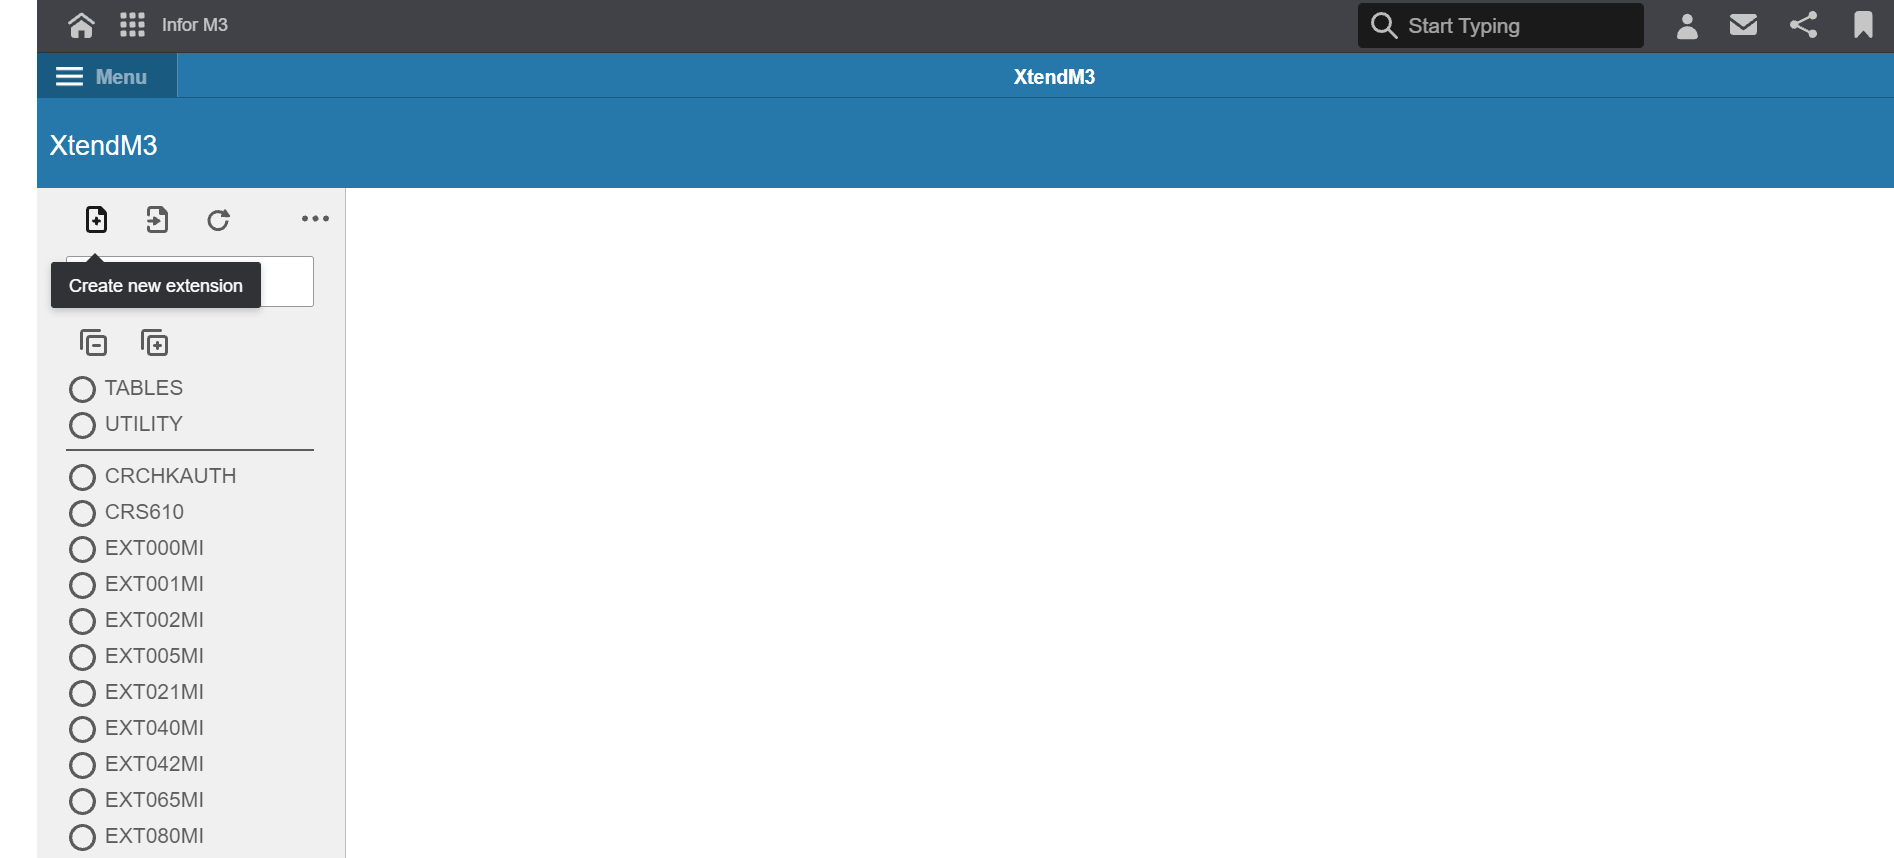
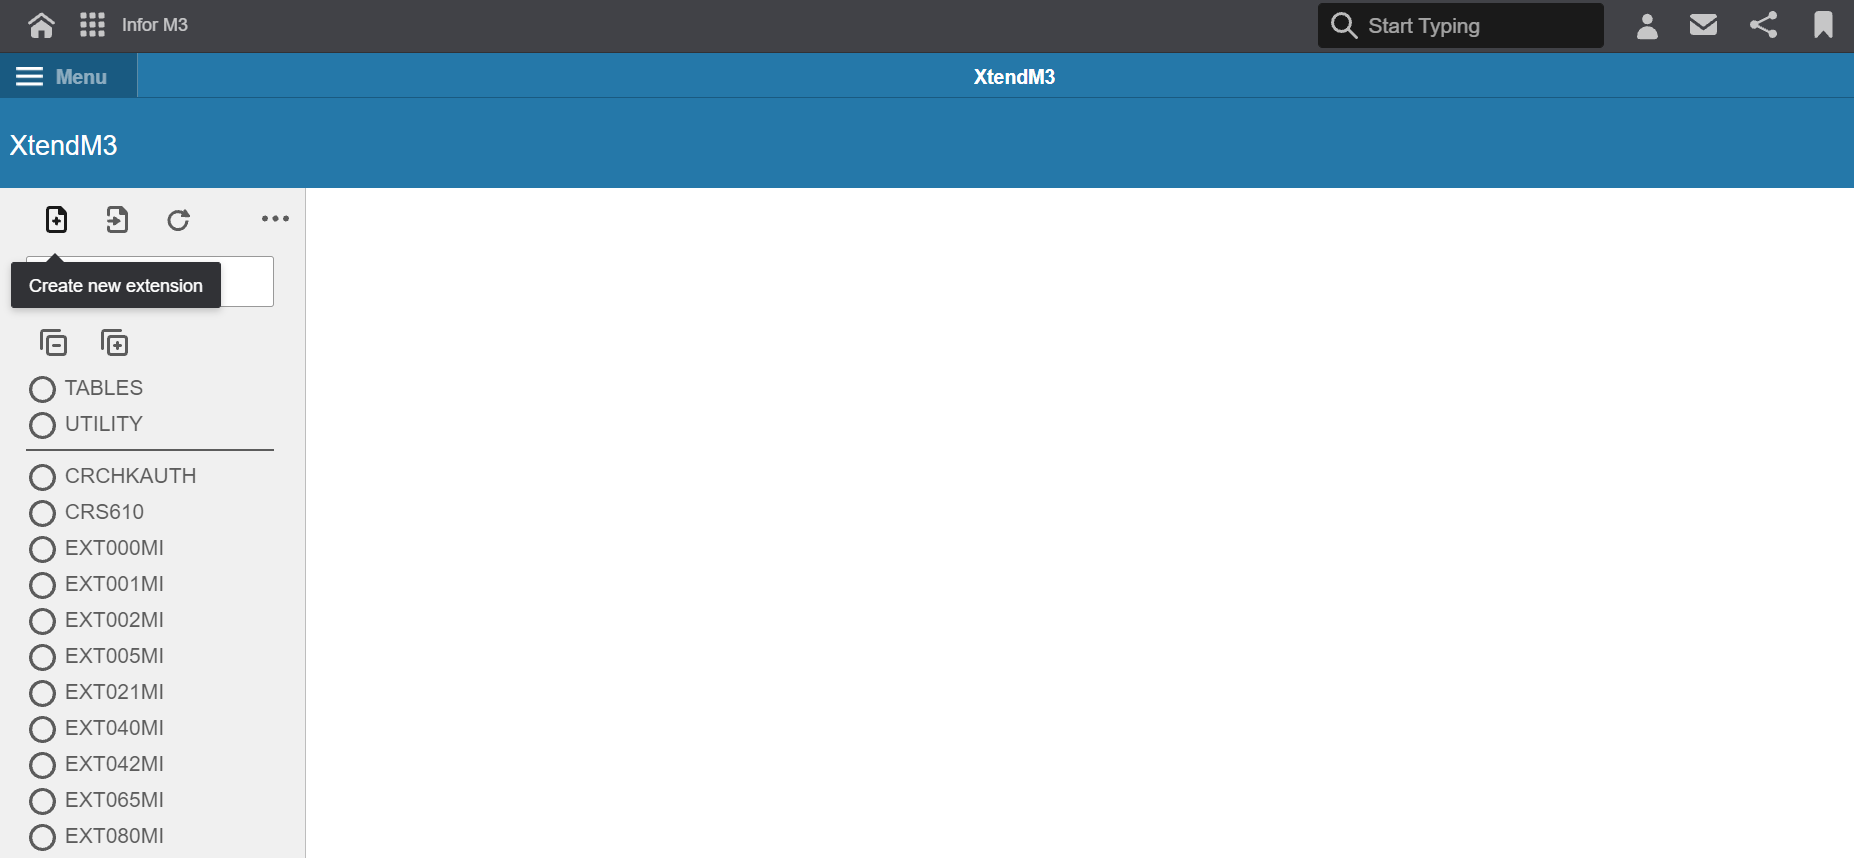
Eample steps, description, Json file, images display

diff --git a/docs/examples/example-004.md b/docs/examples/example-004.md
@@ -42,39 +42,60 @@ After opening M3 main paige, select Menu on the top left corner. Then select Xte
 ### 2. Create new extension button
 
 To create a new extention select "Create a new extention" button.
-<img src="/assets/attachments/ex004/create_extention_button.png">
+<img src="/assets/attachments/ex004/create_extention_button.png" width="950">
 
 ### 3. Extension Type as a transaction extension - executed by a transaction
 
-<img src="/assets/attachments/ex004/choose_type.png">
+Opened window displays an option to select the type of extension to be designed. Select "Transaction" and then click next.
+
+<img src="/assets/attachments/ex004/choose_type.png" width="950">
 
 ### 4. Complete all inputs and single/ multi option
 
+Fill in extention information as described:
 Program : Name of an existing or new program where the extention will be created;
 Name: Name of the extention;
 Description: Functionality of the extention; 
 Multi (option): Multi option allows to create multiple records. Otherwise will create a single record.
-
-<img src="/assets/attachments/ex004/create_description.png">
+Then click "Next"
+<img src="/assets/attachments/ex004/create_description.png" width="950">
 
 ### 5. Add input and/ or output field
 
+At this point you can create fields with input or output data by clicking a plus button and filling in the information:
 Name: 4 uppercase character name of the field;
 Type: text/ number;
 Lenght: maximum input lenght;
 Mandatory (option): choose if the input will be mandatory (only for input fields);
 Description: more detailed description of the field.
+Click "Save" to finish 
 
-<img src="/assets/attachments/ex004/add_field_screen.png">
+<img src="/assets/attachments/ex004/add_field_screen.png" width="950">
 
-<img src="/assets/attachments/ex004/add_field_screen2.png">
+<img src="/assets/attachments/ex004/add_field_screen2.png" width="950">
 
 ### 5. Skeleton of the extension
 Created extention will contain default  code template.
 
-<img src="/assets/attachments/ex004/sceleton_extention.png">
+<img src="/assets/attachments/ex004/sceleton_extention.png" width="950">
 
-### 6. Code example of transaction extension
+Over the code field there are several tools with which you can operate on the designed extension.
+<img src="/assets/attachments/ex004/tool_bar.png" width="950">
+
+Listing them from the left side they are used to:
+
+* Enable editing mode
+* Export the code
+* Extra settings to change the parameters of the extension or enable it etc.
+* Delete the extension
+* Information about the extension'
+* Test compile
+* Refresh
+
+### 6. Code example of transaction extension and APIs usage
+To start writting extention code enable editing by clicking "Edit" button. It is recommended to implement designed for XtendM3 APIs to exploit the full potential of the extension. To read more documentation on <p><a href="https://infor-cloud.github.io/xtendm3/docs/documentation/api-specification">API specification</a></p> click on the link. 
+
+Example below shows usage of <p><a href="https://infor-cloud.github.io/xtendm3/docs/documentation/api-specification/mi-api/">MI API</a></p> and <p><a href="https://infor-cloud.github.io/xtendm3/docs/documentation/api-specification/program-api/">Program API</a></p> to display UserID.  
 
 Example 1:
 ```groovy
@@ -92,18 +113,16 @@ public class GetData extends ExtendM3Transaction {
   }
 }
 ```
+To finish save written extention by clicking "Save" button. It is necesary to activate the extention from settings as shown below for it to be exectuted. 
 
-Example 2:
-```groovy
+<img src="/assets/attachments/ex004/activation.png" width="950">
 
-```
-
-### 7. Funcionality and description of designed extension
-
-### 8. Important notes
+### 7. Important notes
+* It is a good practice to use a test compilation of the program just to check if everything is working properly.
+* The convergence of the presented data is entirely coincidental.
 
 ### Exported Extension
-- [NumberUtil.json](https://infor-cloud.github.io/xtendm3/assets/attachments/ex001/DateUtil.json)
+- [Transaction Extantion Example.json](https://infor-cloud.github.io/xtendm3/assets/attachments/ex004/TRANSACTION-EXT042MI-getUser.json)
 
 ### See Also
 N/A
